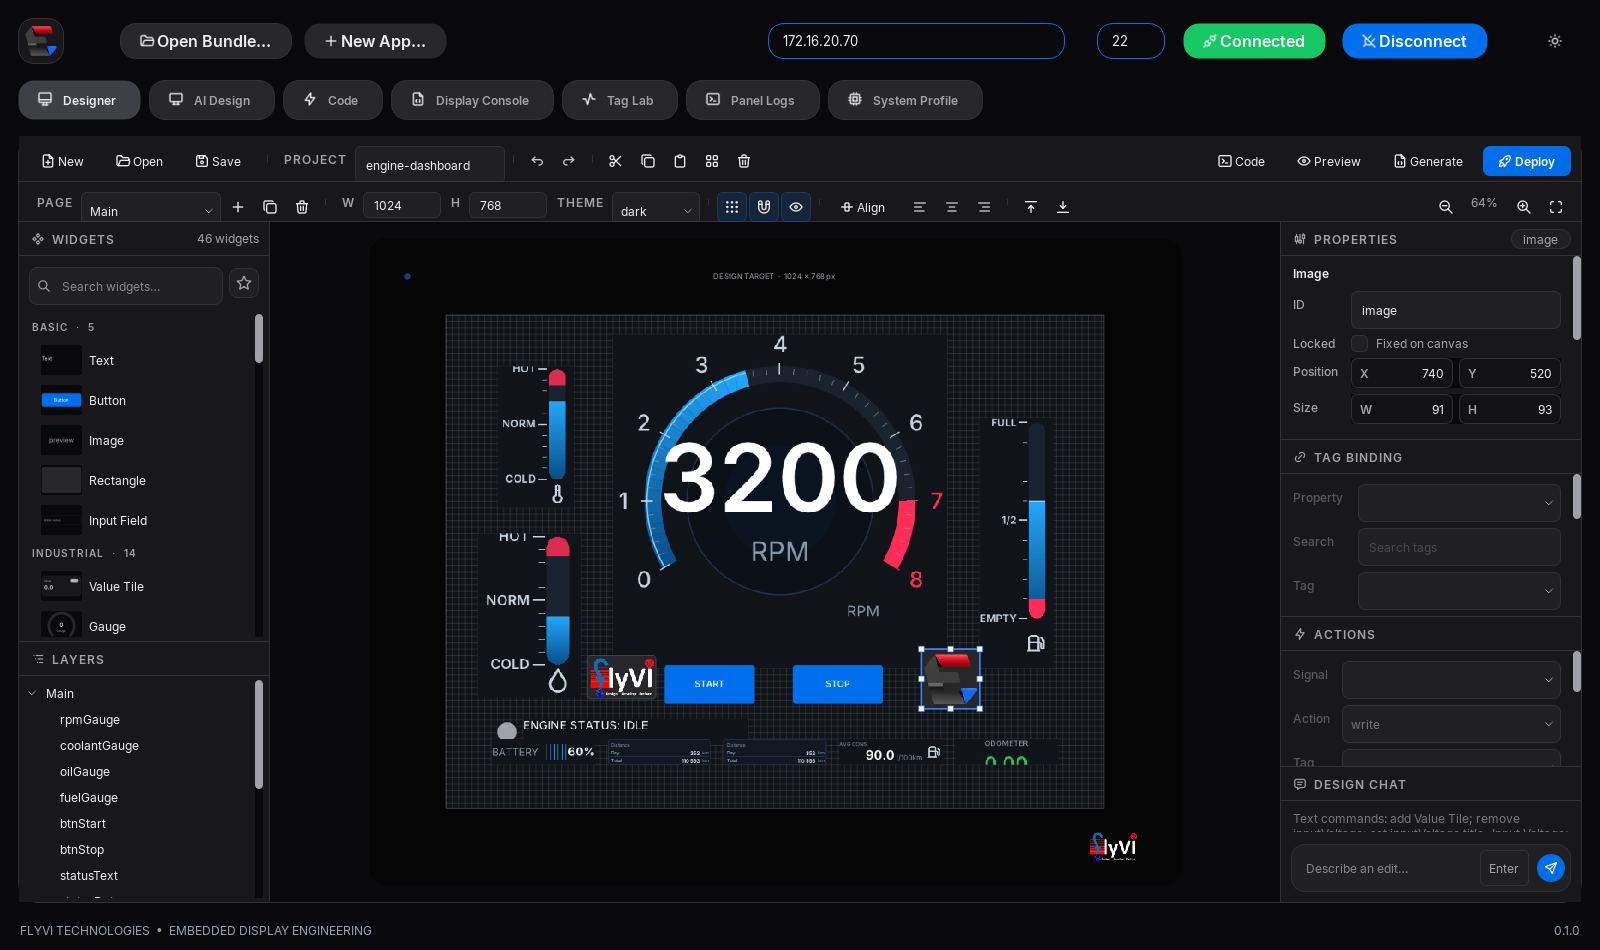
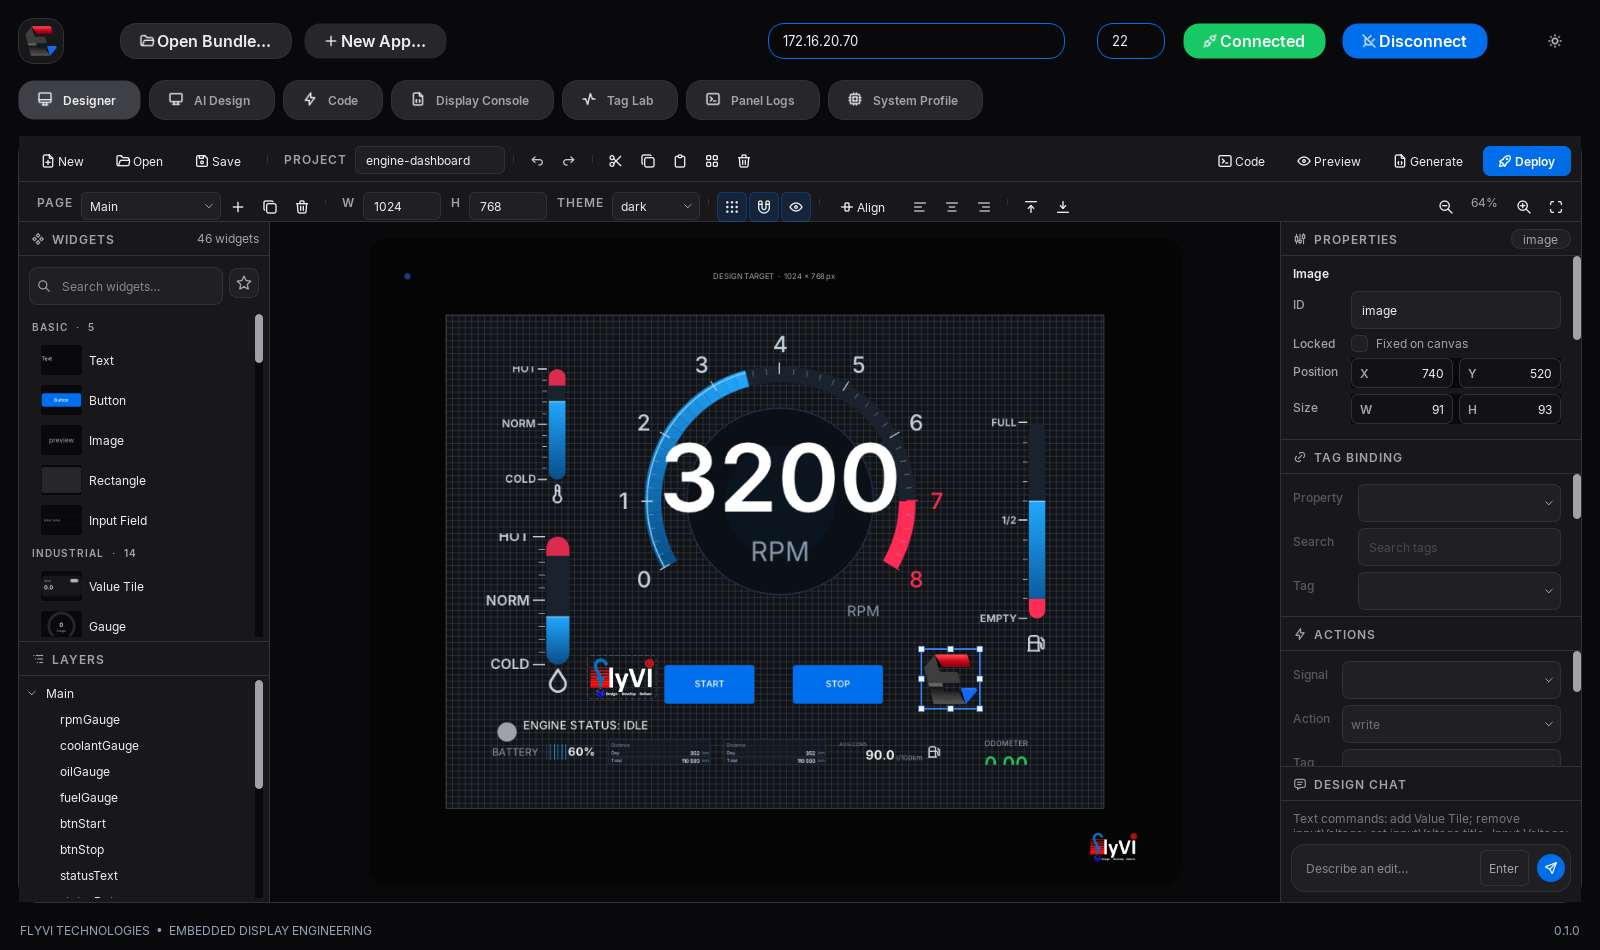
Designer canvas: widget previews with alpha, composed like the glass, smooth at any zoom
hmi-ui's headless display is ARGB8888 and its PNG carries alpha; the
screen object beneath the page no longer adds an opaque fill, so a
design whose background is '#00000000' renders its widgets over nothing.
The native renderer renders widgets that way, and the canvas composes
them over the page exactly as the panel composes the page: the compass
is a disc, gauges are transparent, the ladder sits on the horizon. The
view resamples renders with SmoothPixmapTransform (glyphs were jagged
at 64 %). An Image with a picture is just the picture, no box.

diff --git a/designer/preview/native_renderer.py b/designer/preview/native_renderer.py
@@ -147,8 +147,9 @@ class NativeRenderer(QObject):
         enabled: False makes image_for return None without scheduling.
         available: True when a binary was found at construction.
         binary: the path used (or None).
-        background: the screen colour behind a widget render ('#rrggbb');
-            the workspace sets it to the design's screen background.
+        background: the design's screen background ('#rrggbb'), kept for
+            widgets that read it; widget renders themselves are made over a
+            transparent screen so the canvas can compose them.
         parallel: how many child processes may run at once (default 2).
         project_dir: the design's bundle directory, when known. Its assets/
             folder is placed beside the temporary project so widgets that
@@ -251,7 +252,11 @@ class NativeRenderer(QObject):
         still.bindings = {}
         still.actions = {}
         still.geometry = {"x": 0, "y": 0, "width": w, "height": h}
-        project = DesignerProject(name="preview", screen=DesignerScreen(w, h, self.background, theme),
+        # A transparent screen: the widget is drawn over nothing, so the
+        # canvas composes it over the page (and over its neighbours) exactly
+        # as the panel composes the page. `background` is only what a widget
+        # that itself asks for the page colour would see.
+        project = DesignerProject(name="preview", screen=DesignerScreen(w, h, "#00000000", theme),
                                   pages=[DesignerPage("main", "Main", widgets=[still])])
         return project.to_dict()
 

diff --git a/designer/canvas/designer_view.py b/designer/canvas/designer_view.py
@@ -48,6 +48,9 @@ class DesignerItem(QGraphicsRectItem):
                     ("" if self.widget_model.type == "Text" else properties.get("color")))
         if not explicit and self.widget_model.type == "Text":
             return QColor(Qt.transparent)
+        # An Image with a picture is just the picture on the panel: no box.
+        if not explicit and self.widget_model.type == "Image" and properties.get("source"):
+            return QColor(Qt.transparent)
         return QColor(explicit or "#27272a")
 
     def label_text(self):
@@ -541,7 +544,10 @@ class DesignerView(QGraphicsView):
         super().__init__(scene, parent)
         self._auto_fit = True
         self.setAcceptDrops(True)
-        self.setRenderHints(QPainter.Antialiasing | QPainter.TextAntialiasing)
+        # SmoothPixmapTransform: the renders come back at (or near) the canvas
+        # zoom and are drawn into scene rectangles; without it Qt resamples
+        # them nearest-neighbour and glyphs go jagged.
+        self.setRenderHints(QPainter.Antialiasing | QPainter.TextAntialiasing | QPainter.SmoothPixmapTransform)
         self.setDragMode(QGraphicsView.RubberBandDrag)
         self.setTransformationAnchor(QGraphicsView.AnchorUnderMouse)
         # Repaint the union of what changed rather than each item's own claim.

diff --git a/native/hmi-ui/src/display.c b/native/hmi-ui/src/display.c
@@ -32,7 +32,7 @@ lv_display_t *hmi_display_headless(int w, int h)
     hd->w = w; hd->h = h;
     hd->fb = calloc((size_t)w * h, 4);
     lv_display_t *disp = lv_display_create(w, h);
-    lv_display_set_color_format(disp, LV_COLOR_FORMAT_XRGB8888);
+    lv_display_set_color_format(disp, LV_COLOR_FORMAT_ARGB8888);
     lv_display_set_buffers(disp, hd->fb, NULL, (uint32_t)w * h * 4, LV_DISPLAY_RENDER_MODE_DIRECT);
     lv_display_set_flush_cb(disp, headless_flush);
     lv_display_set_user_data(disp, hd);
@@ -88,10 +88,10 @@ bool hmi_display_headless_save(lv_display_t *disp, const char *path)
     size_t n = (size_t)hd->w * hd->h;
     unsigned char *rgba = malloc(n * 4);
     for (size_t i = 0; i < n; ++i) {
-        rgba[i * 4 + 0] = hd->fb[i * 4 + 2];
+        rgba[i * 4 + 0] = hd->fb[i * 4 + 2];   // LVGL ARGB8888 is stored B, G, R, A
         rgba[i * 4 + 1] = hd->fb[i * 4 + 1];
         rgba[i * 4 + 2] = hd->fb[i * 4 + 0];
-        rgba[i * 4 + 3] = 255;
+        rgba[i * 4 + 3] = hd->fb[i * 4 + 3];
     }
     bool ok = write_png(path, rgba, hd->w, hd->h);
     free(rgba);

diff --git a/native/hmi-ui/src/display.h b/native/hmi-ui/src/display.h
@@ -8,9 +8,13 @@
 
 // /dev/dri/cardN via LVGL's DRM driver; the display's native mode.
 lv_display_t *hmi_display_drm(const char *device);
-// A w x h XRGB8888 buffer; nothing is shown anywhere.
+// A w x h ARGB8888 buffer; nothing is shown anywhere. The buffer starts
+// fully transparent, so a design whose screen background carries alpha
+// ("#00000000") renders its widgets over nothing -- the Studio composes
+// such renders on its canvas the way the panel composes widgets over the
+// page. Opaque backgrounds render exactly as on the panel.
 lv_display_t *hmi_display_headless(int w, int h);
-// Render everything pending and write the headless buffer as PNG.
+// Render everything pending and write the headless buffer as PNG, alpha included.
 bool hmi_display_headless_save(lv_display_t *disp, const char *path);
 // What is on screen right now, whatever the display: LVGL's snapshot of the
 // active screen, written as PNG. The panel's `kill -USR1 $(pidof hmi-ui)`

diff --git a/native/hmi-ui/src/main.c b/native/hmi-ui/src/main.c
@@ -216,6 +216,9 @@ int main(int argc, char **argv)
 
     int status = 0;
     if (headless) {
+        // The page paints the design's background (alpha and all); the screen
+        // object beneath it must not add an opaque fill of its own.
+        lv_obj_set_style_bg_opa(lv_screen_active(), LV_OPA_TRANSP, 0);
         status = hmi_display_headless_save(disp, headless) ? 0 : 1;
         hmi_log(HMI_LOG_INFO, "rendered %s", headless);
     } else {
